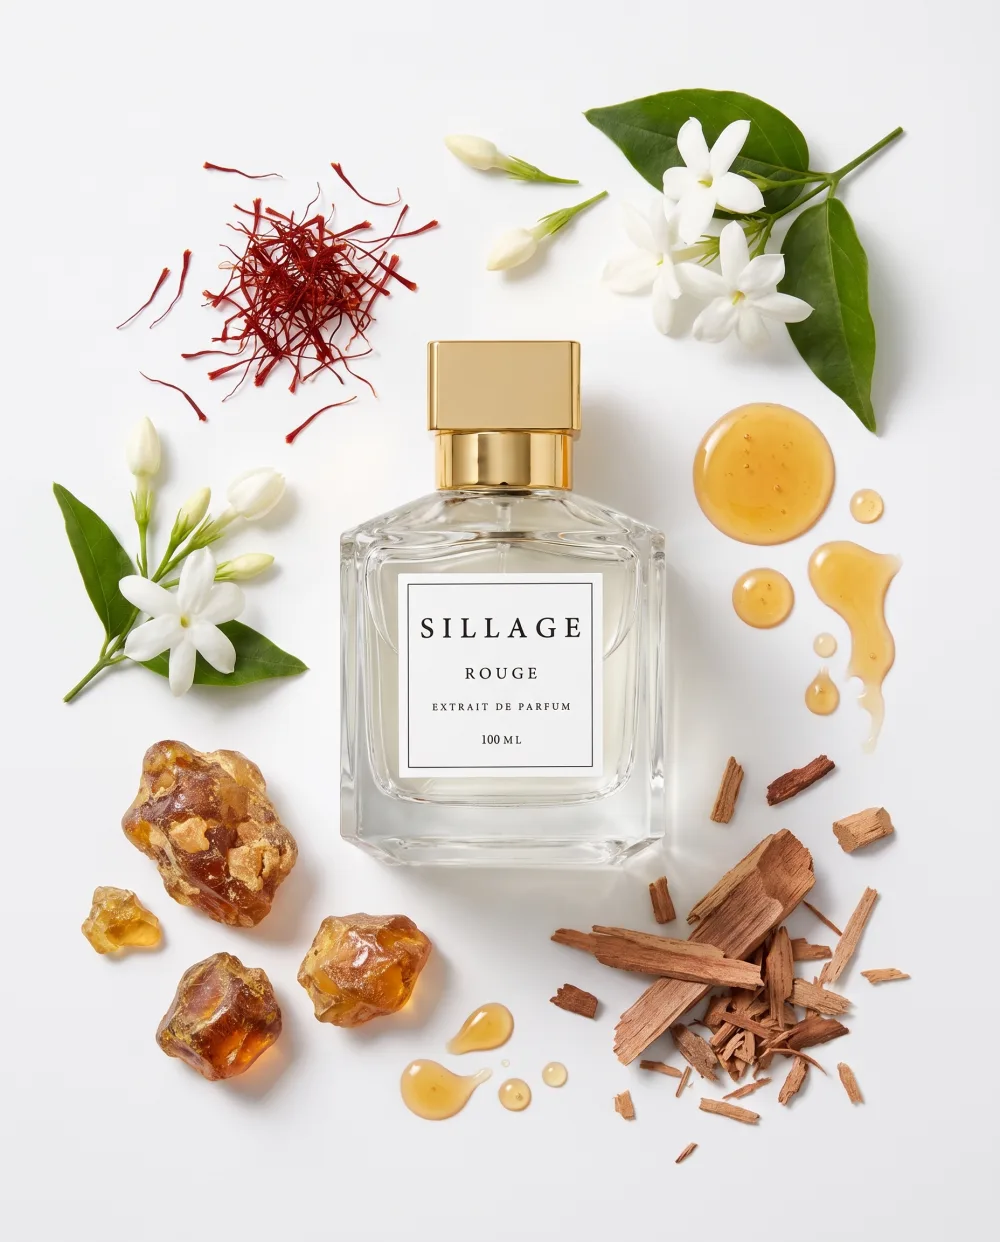
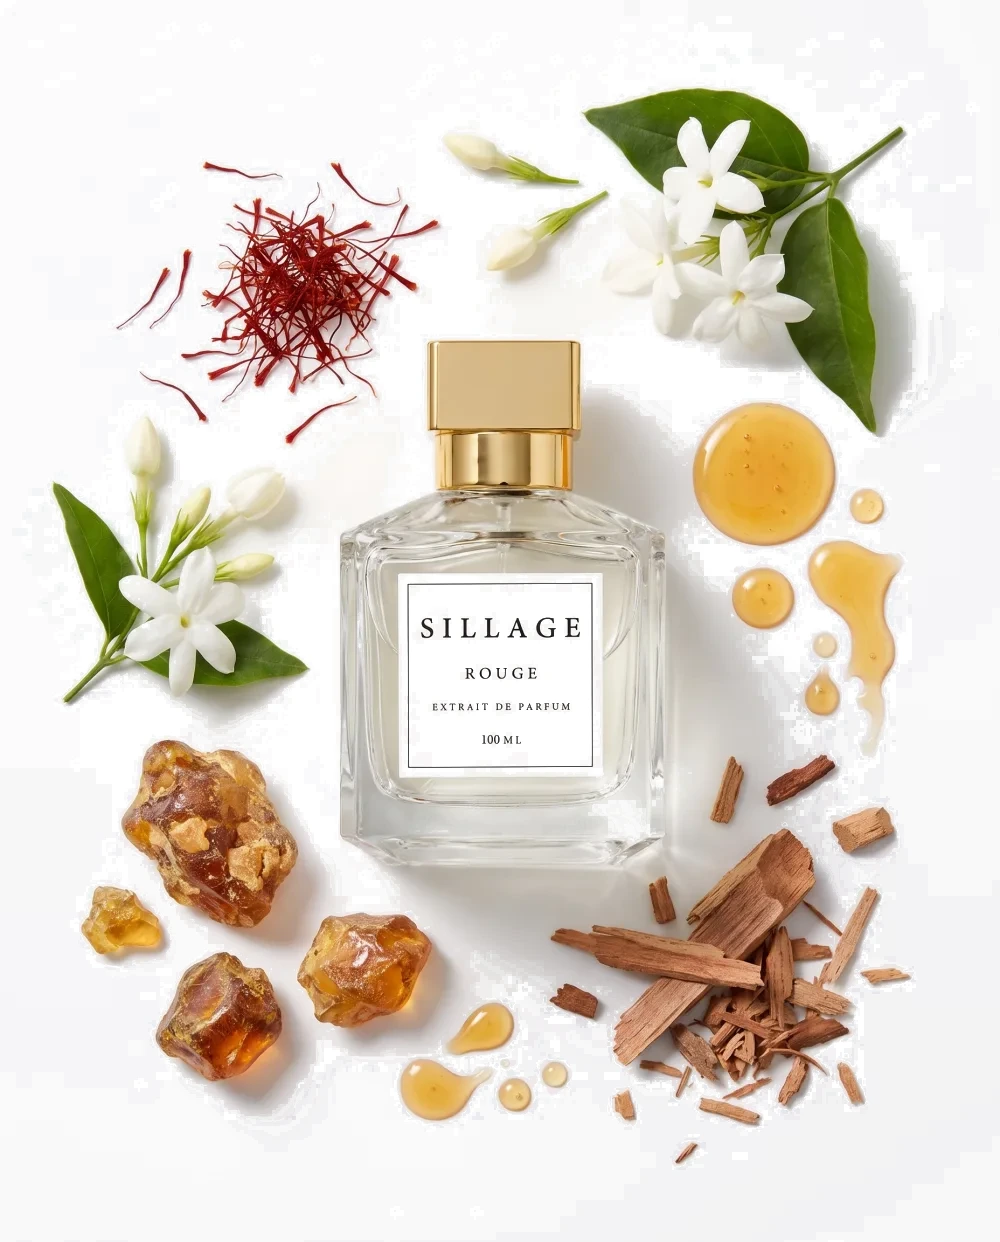
Real capped-drop scarcity: Rouge live at 220-unit cap (500 in copy), Citrus/Sweet sold out
Whitened all 3 Rouge gallery images using saturation-based smoothstep
whitening (per the supplied standard) - background pushed to true white
via color, not position, so real props (glass, gold cap, saffron, amber,
flowers) stay untouched with zero halos/seams.

Calibration wasn't uniform across the 3 images despite being the "same
batch" by filename/date - the flat-lay hero needed a wide brightness
window (175-226), but the two studio shots (box, bottle-only) have a much
narrower real background range and, at close inspection, a faint tiled
watermark-like pattern baked into the source files that's invisible at
normal contrast but gets revealed by any partial-weight whitening. Fixed
by setting v_hi below each image's real background range so those pixels
get a full overwrite to solid white instead of a partial blend that lets
the pattern show through - confirmed clean via corner sampling and visual
zoom on all three, not just the one initially checked.

Also gave the hero image a proper white card container (rounded corners,
soft shadow) instead of letting it float directly on the page's cream
background - the site's actual canvas isn't pure white, so a bare
white-background image would otherwise read as a pasted rectangle.

Copy fix: stock counter now says "X of 500 remaining" instead of
"available now" - the latter implied more could show up later, which
isn't the case for a fixed non-restocking batch.

diff --git a/ar/rouge.html b/ar/rouge.html
@@ -103,11 +103,16 @@
       position: relative;
       width: min(80%, 360px);
       margin: 0 auto 14px;
+      background: var(--white);
+      border-radius: 18px;
+      padding: 20px;
+      box-shadow: 0 6px 28px rgba(28,28,28,0.07);
     }
     .hero-img {
       width: 100%;
       height: auto;
-      filter: drop-shadow(0 18px 36px rgba(0,0,0,0.1));
+      display: block;
+      border-radius: 8px;
     }
     .hero-badge {
       position: absolute;
@@ -1406,7 +1411,7 @@
         }
         if (data.success && data.stock && typeof data.stock[PRODUCT] === 'number' && data.stock[PRODUCT] > 0) {
           var counterEl = document.getElementById('stock-counter');
-          counterEl.innerHTML = '<span class="dot"></span>' + data.stock[PRODUCT] + ' من 500 متوفرة الآن';
+          counterEl.innerHTML = '<span class="dot"></span>' + data.stock[PRODUCT] + ' من 500 متبقي';
           counterEl.style.display = 'flex';
         }
       })
